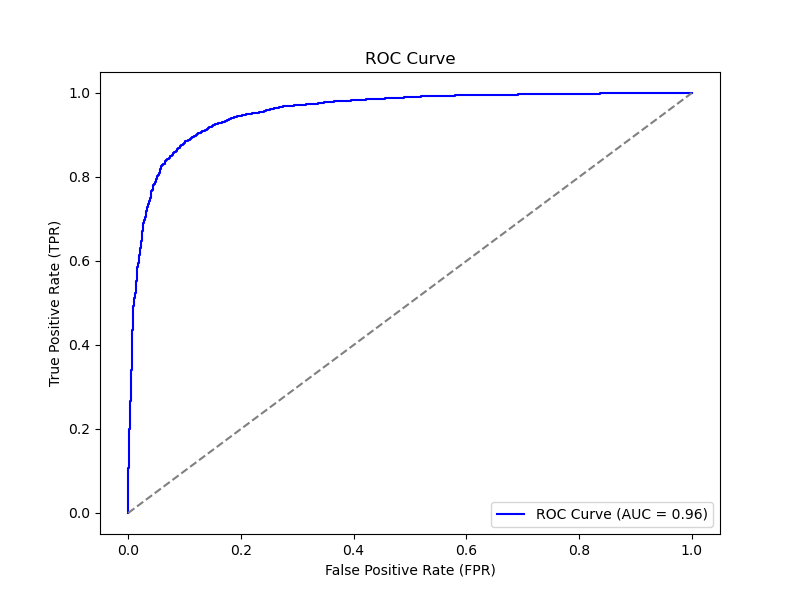
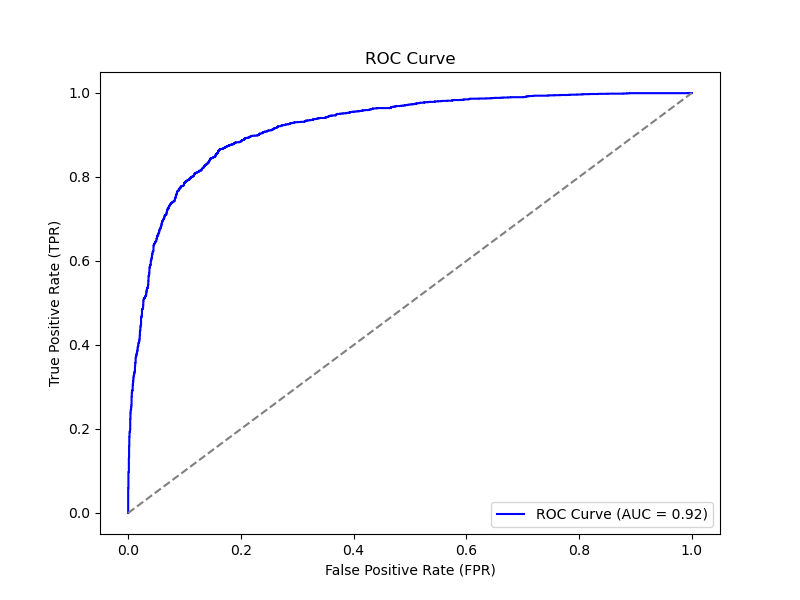
word embedding

diff --git a/main.py b/main.py
@@ -1,27 +1,24 @@
-#FER: veure dataset % de cada un. per veure si millor accuracy o precision.
 #FER: accuracy amb max features de tfidf
-
-#FER: word embedding (relacions semantiques(sig) i sintactiques)
-#FER: BOOSTRAP, BAGGING, BOOSTING, CROSS VALIDATION
-
 
 
 #NEGATIVE COMMENT: 0, POSITIVE COMMENT: 1
 #'text', 'label'
 #40.000, 5.000, 5.000
 
-from langdetect import detect
 import time
 import re
-import pandas as pd
 import sys
 import pickle
 import os
+import numpy as np
+import pandas as pd
+from langdetect import detect
+from nltk import pos_tag
 from nltk.tokenize import word_tokenize
 from nltk.corpus import stopwords, wordnet
-from nltk import pos_tag
 from nltk.stem import WordNetLemmatizer, PorterStemmer
 from sklearn.feature_extraction.text import TfidfVectorizer
+from gensim.models import Word2Vec, KeyedVectors
 
 import LR
 import SVM
@@ -30,7 +27,7 @@ import KNN
 import NB
 
 # Selecció model: KNN, LR, NB, RF, SVM
-MODEL_CHOICE = 'NB' 
+MODEL_CHOICE = 'LR' 
 model_modules = {
     "LR": LR,
     "SVM": SVM,
@@ -39,10 +36,16 @@ model_modules = {
     "NB": NB
 }
 
+#Selecció method: tfidf, word_embedding
+embedding_method = 'word_embedding'
+    
 # path carpeta
 DATA_PATH = 'C:/Users/marti/OneDrive/Escriptori/datasets_AC/'  
 #DATA_PATH = 'C:/Users/twitc/OneDrive/Desktop/Dataset/'
 #DATA_PATH = "C:/Users/Almoujtaba/Desktop/CARRERA/ACproject-grup-20/datasets_AC/"
+
+#path model word embedding
+word_embedding_model_path = 'C:/Users/marti/OneDrive/Escriptori/ProjecteAC/GoogleNews-vectors-negative300.bin'
 
 # Normalització del text
 def normalize_text(text):   
@@ -115,7 +118,7 @@ def preprocess_pipeline(data, column_name):
     """
     Funció que aplica la normalització i la lematització al dataset.
     """
-    data['processed_text'] = data['text'].apply(lambda x: lemmatize(normalize_text(x)))
+    data['processed_text'] = data['text'].apply(lambda x: lemmatizePOS(normalize_text(x)))
     return data
 
 #carregar i preprocessar dades
@@ -151,9 +154,41 @@ def load_data(filename):
     with open(filename, 'rb') as f:
         return pickle.load(f)
 
-def convert_to_numeric_matrices(X_train, X_valid, X_test):
+# Funció per carregar un model de Word2Vec (o un model GloVe)
+def load_word_embedding_model(model_path):
     """
-    Converteix els textos preprocessats en matrius numèriques utilitzant TF-IDF.
+    Carrega un model Word2Vec o GloVe des de la ruta especificada.
+    """
+    model = KeyedVectors.load_word2vec_format(model_path, binary=True)
+    return model
+
+# Funció per obtenir el vector mitjà d'un text utilitzant Word2Vec
+def get_word2vec_vector(text, model):
+    """
+    Funció per obtenir el vector mitjà d'un text utilitzant Word2Vec.
+    """
+    tokens = word_tokenize(text)
+    valid_tokens = [word for word in tokens if word in model]
+    if valid_tokens:
+        word_vectors = [model[word] for word in valid_tokens]
+        return np.mean(word_vectors, axis=0)
+    else:
+        return np.zeros(model.vector_size)  # Vector buit si no trobem paraules en el model
+
+# Funció per convertir els textos en matrius de Word Embedding
+def convert_to_word_embeddings(X_train, X_valid, X_test, model):
+    """
+    Converteix els textos en matrius de Word Embedding.
+    """
+    X_train_matrix = np.array([get_word2vec_vector(text, model) for text in X_train['processed_text']])
+    X_valid_matrix = np.array([get_word2vec_vector(text, model) for text in X_valid['processed_text']])
+    X_test_matrix = np.array([get_word2vec_vector(text, model) for text in X_test['processed_text']])
+    return X_train_matrix, X_valid_matrix, X_test_matrix
+
+# Funció per convertir els textos en matrius TF-IDF
+def convert_to_tfidf(X_train, X_valid, X_test):
+    """
+    Converteix els textos en matrius numèriques utilitzant TF-IDF.
     """
     vectorizer = TfidfVectorizer(max_features=5000)
     X_train_matrix = vectorizer.fit_transform(X_train['processed_text'])
@@ -161,37 +196,71 @@ def convert_to_numeric_matrices(X_train, X_valid, X_test):
     X_test_matrix = vectorizer.transform(X_test['processed_text'])
     return X_train_matrix, X_valid_matrix, X_test_matrix, vectorizer
 
+# Canvi del main per incloure el paràmetre de selecció de mètode
 def main():
     start_time = time.time()
 
-    # Comprovar si els fitxers pickle de les matrius TF-IDF i les etiquetes ja existeixen
-    if os.path.exists('X_train_matrix.pkl'):
-        # Carregar les matrius TF-IDF i les etiquetes des de pickle
-        X_train_matrix = load_data('X_train_matrix.pkl')
-        X_valid_matrix = load_data('X_valid_matrix.pkl')
-        X_test_matrix = load_data('X_test_matrix.pkl')
-        y_train = load_data('y_train.pkl')
-        y_valid = load_data('y_valid.pkl')
-        y_test = load_data('y_test.pkl')
+    #WORD EMBEDDING
+    if embedding_method == 'word_embedding':
+        if os.path.exists('X_train_word_embedding.pkl'):
+            # Carregar les matrius de Word Embedding i les etiquetes des de pickle
+            X_train_matrix = load_data('X_train_word_embedding.pkl')
+            X_valid_matrix = load_data('X_valid_word_embedding.pkl')
+            X_test_matrix = load_data('X_test_word_embedding.pkl')
+            y_train = load_data('y_train.pkl')
+            y_valid = load_data('y_valid.pkl')
+            y_test = load_data('y_test.pkl')
+            print('DADES CARREGADES')
+        else:
+            # Carregar i processar les dades
+            X_train, y_train, X_valid, y_valid, X_test, y_test = load_and_preprocess_data(DATA_PATH)
 
-        print('DADES CARREGADES')
-    
+            # Carregar model de Word Embedding
+            model = load_word_embedding_model(word_embedding_model_path)
+
+            # Convertir els textos en matrius de Word Embedding
+            X_train_matrix, X_valid_matrix, X_test_matrix = convert_to_word_embeddings(X_train, X_valid, X_test, model)
+
+            # Guardar les matrius de Word Embedding
+            save_data(X_train_matrix, 'X_train_word_embedding.pkl')
+            save_data(X_valid_matrix, 'X_valid_word_embedding.pkl')
+            save_data(X_test_matrix, 'X_test_word_embedding.pkl')
+            save_data(y_train, 'y_train.pkl')
+            save_data(y_valid, 'y_valid.pkl')
+            save_data(y_test, 'y_test.pkl')
+
+            print('DADES PROCESSADES I DESCARGADES')
+
+    #TF-IDF
+    elif embedding_method == 'tfidf':
+        if os.path.exists('X_train_matrix.pkl'):
+            # Carregar les matrius TF-IDF i les etiquetes des de pickle
+            X_train_matrix = load_data('X_train_matrix.pkl')
+            X_valid_matrix = load_data('X_valid_matrix.pkl')
+            X_test_matrix = load_data('X_test_matrix.pkl')
+            y_train = load_data('y_train.pkl')
+            y_valid = load_data('y_valid.pkl')
+            y_test = load_data('y_test.pkl')
+            print('DADES CARREGADES')
+        else:
+            # Carregar i processar les dades
+            X_train, y_train, X_valid, y_valid, X_test, y_test = load_and_preprocess_data(DATA_PATH)
+
+            # Convertir a matrius TF-IDF
+            X_train_matrix, X_valid_matrix, X_test_matrix, _ = convert_to_tfidf(X_train, X_valid, X_test)
+
+            # Guardar les matrius TF-IDF i les etiquetes
+            save_data(X_train_matrix, 'X_train_matrix.pkl')
+            save_data(X_valid_matrix, 'X_valid_matrix.pkl')
+            save_data(X_test_matrix, 'X_test_matrix.pkl')
+            save_data(y_train, 'y_train.pkl')
+            save_data(y_valid, 'y_valid.pkl')
+            save_data(y_test, 'y_test.pkl')
+
+            print('DADES PROCESSADES I DESCARGADES')
+
     else:
-        # Carregar i processar les dades
-        X_train, y_train, X_valid, y_valid, X_test, y_test = load_and_preprocess_data(DATA_PATH)
-
-        # Convertir a matrius numèriques
-        X_train_matrix, X_valid_matrix, X_test_matrix, _ = convert_to_numeric_matrices(X_train, X_valid, X_test)
-
-        # Guardar les matrius TF-IDF i les etiquetes
-        save_data(X_train_matrix, 'X_train_matrix.pkl')
-        save_data(X_valid_matrix, 'X_valid_matrix.pkl')
-        save_data(X_test_matrix, 'X_test_matrix.pkl')
-        save_data(y_train, 'y_train.pkl')
-        save_data(y_valid, 'y_valid.pkl')
-        save_data(y_test, 'y_test.pkl')
-
-        print('DADES PROCESSADESS i DESCARGADES')
+        print('SELECCIONAR CORRECTAMENT EL MODEL')
 
     processar_time = time.time()
     print('Temps trigat a processar les dades:', processar_time - start_time)
@@ -203,7 +272,7 @@ def main():
     print('Model utilitzat:', MODEL_CHOICE)
     
     # Entrenar i predir
-    y_pred = getattr(model_module, "entrena_prediu_i_evaluaAlpha")(X_train_matrix, y_train, X_test_matrix, y_test)
+    y_pred = getattr(model_module, "entrena_prediu_i_evalua")(X_train_matrix, y_train, X_test_matrix, y_test)
     entrenaripredir_time = time.time()
     print('Temps entrenament:', entrenaripredir_time - processar_time)
 

diff --git a/LR.py b/LR.py
@@ -199,7 +199,7 @@ def comparar_accuracy_per_percentatge(X_train, y_train, X_test, y_test):
 #EVALUACIÓ PARÀMETRES
 ##############################################################################################
 
-#GRIDSEARCH
+#gridsearch
 def entrena_prediu_i_evaluaGridSearch(X_train, y_train, X_test, y_test):
     """
     Entrena un model de regressió logística amb GridSearchCV per buscar els millors hiperparàmetres,
@@ -256,7 +256,7 @@ def entrena_prediu_i_evaluaGridSearch(X_train, y_train, X_test, y_test):
 
     return clf_
 
-#MAX_ITER
+#max iter
 def entrena_prediu_i_evaluaMaxIter(X_train, y_train, X_test, y_test): 
     """
     Entrena el model de regressió logística amb diferents valors de max_iter
@@ -353,7 +353,7 @@ def entrena_prediu_i_evaluaMaxIter(X_train, y_train, X_test, y_test):
 
     print(f"Gràfiques desades")
 
-#C
+#c
 def entrena_prediu_i_evaluaImpactC(X_train, y_train, X_test, y_test):
     """
     Entrena un model de regressió logística amb diferents valors de C, 

diff --git a/NB.py b/NB.py
@@ -221,7 +221,7 @@ def entrena_prediu_i_evaluaAlpha(X_train, y_train, X_test, y_test):
     plt.close()
 
 
-#MULTINOMIAL AMB ALTRES
+#mulitnomial amb altres
 def entrena_prediu_i_evaluaDiferentsNB(X_train, y_train, X_test, y_test):
     """
     Entrena 4 models Naive Bayes (MultinomialNB, BernoulliNB, GaussianNB, CategoricalNB),
